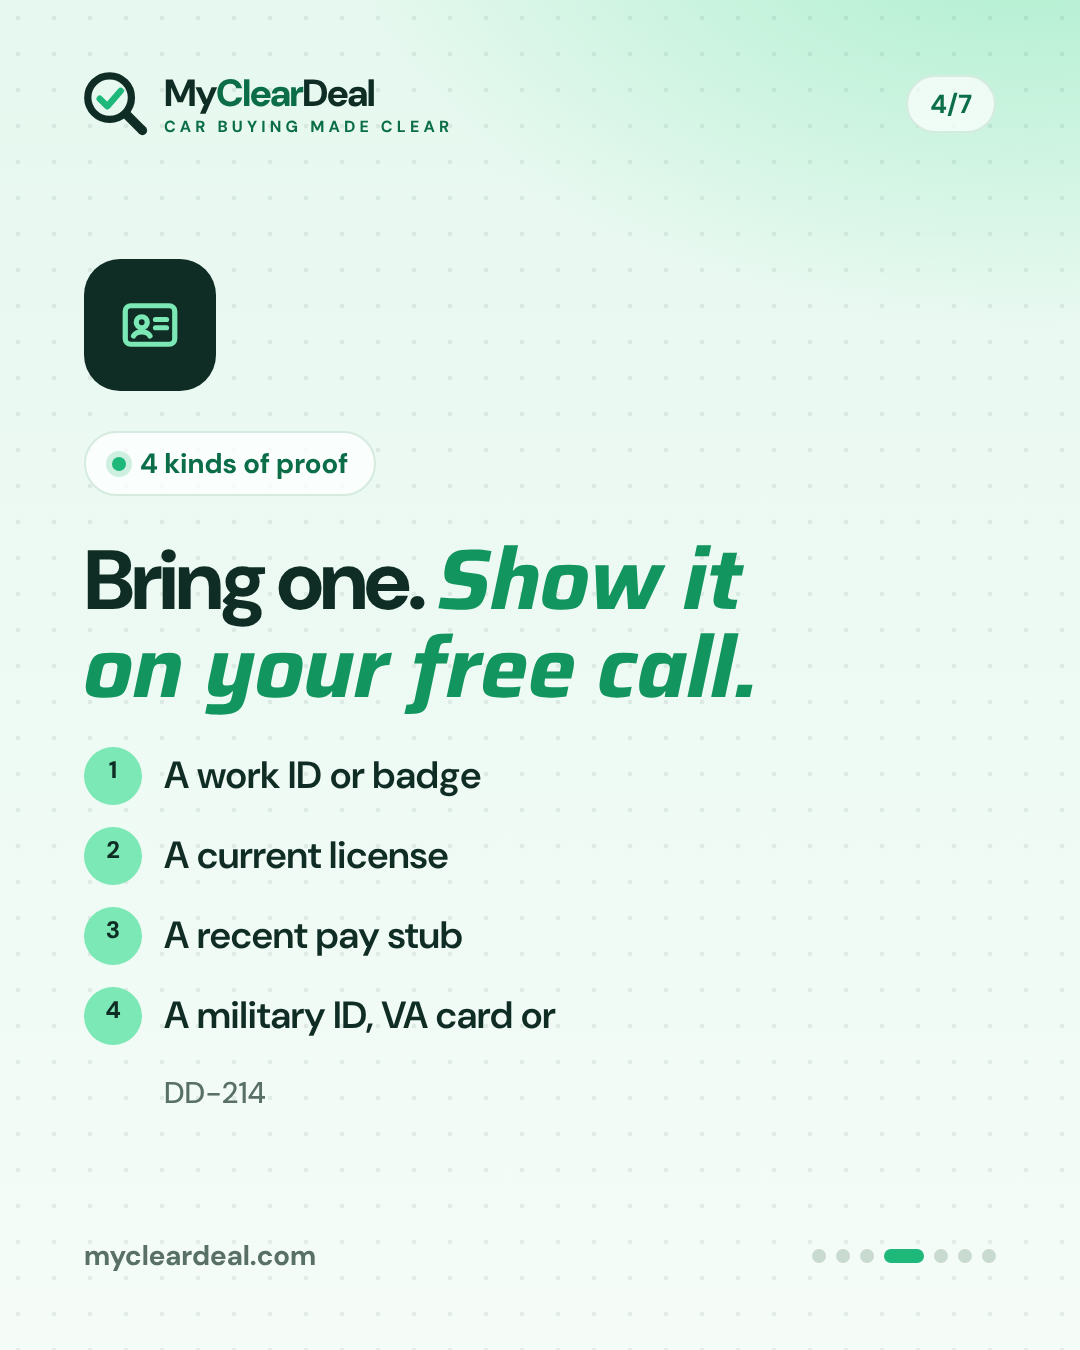
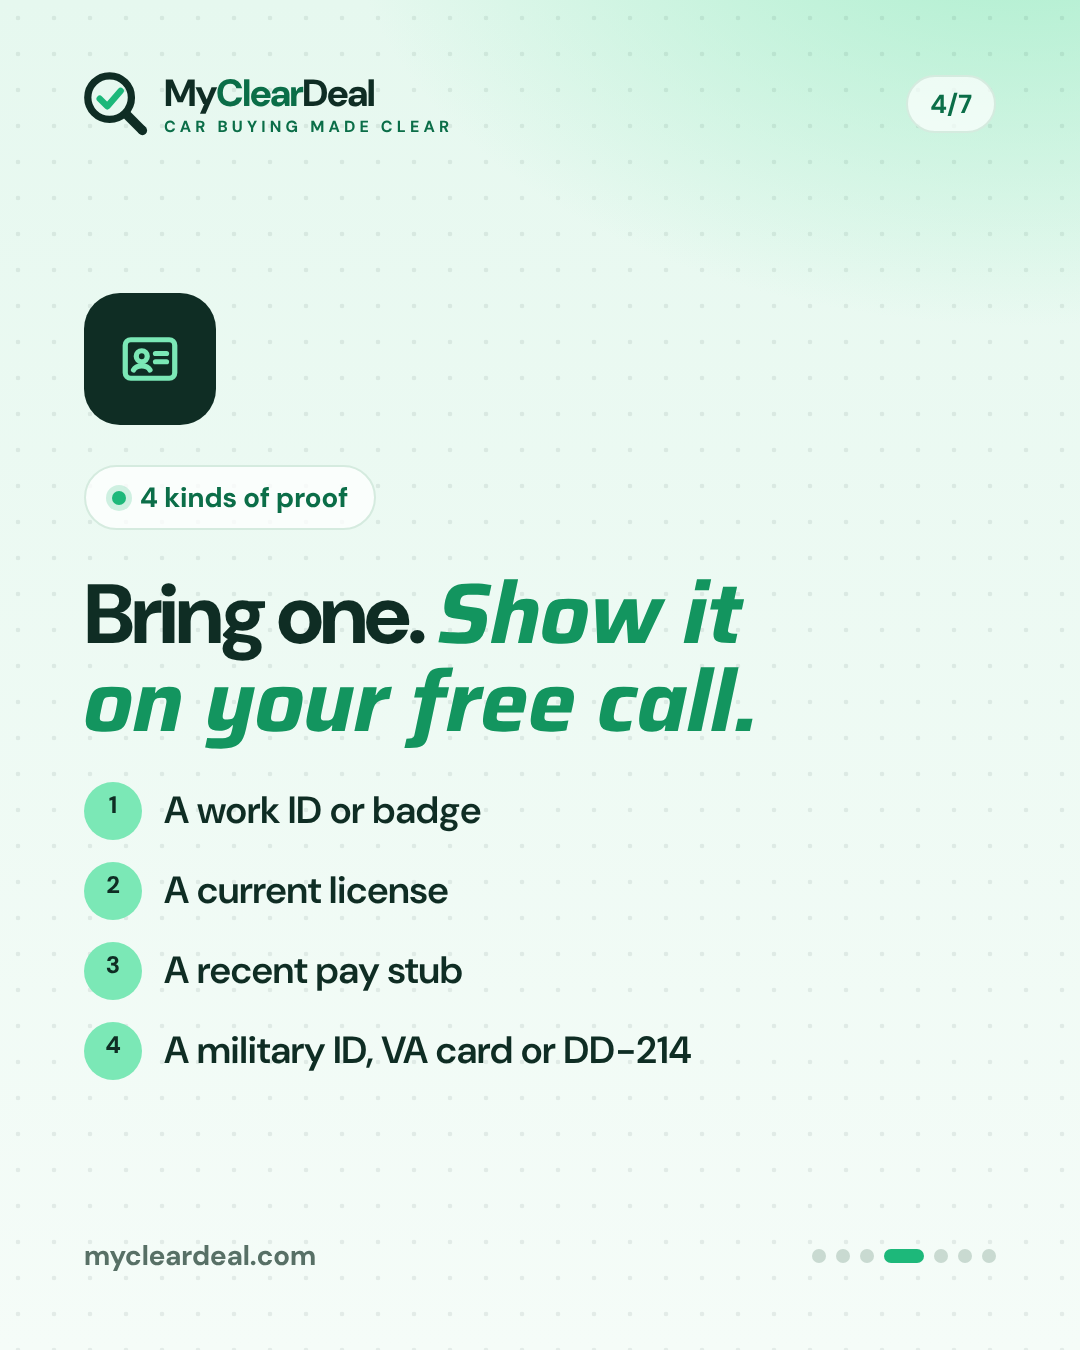
Carousels: keep DD-214 on one line
Claude-Session: https://claude.ai/code/session_017CWMKgjr8anQGjJ9tdgXqR

Changed region(s): [[0.0611, 0.4044, 0.7028, 0.84], [0.0611, 0.1867, 0.3361, 0.3733]]

diff --git a/marketing/social/src/parts.js b/marketing/social/src/parts.js
@@ -37,7 +37,7 @@ function post({ bg = 'mint', i, n, lang = 'en', body, foot }) {
   const dots = `<div class="dots">${Array.from({ length: n }, (_, k) => `<i class="${k === i - 1 ? 'on' : ''}"></i>`).join('')}</div>`;
   const swipe = `<span class="swipe">${lang === 'es' ? 'Desliza' : 'Swipe'} ${ARROW}</span>`;
   const f = foot != null ? foot : i === 1 ? `<span>mycleardeal.com</span>${swipe}` : i === n ? `<span>mycleardeal.com</span>${dots}` : `<span>mycleardeal.com</span>${dots}`;
-  body = body.replace(/DD-214/g, '<span style="white-space:nowrap">DD-214</span>');
+  body = body.replace(/DD-214/g, 'DD-\u2060214'); // word joiner: never split DD-214 across lines
   return `<div class="frame post bg-${bg}"><div class="top">${BRAND(dark, lang)}<span class="count">${i}/${n}</span></div><div class="body">${body}</div><div class="foot">${f}</div></div>`;
 }
 const page = (inner, extraCss = '') => `<!doctype html><html><head><meta charset="utf-8"><link rel="stylesheet" href="base.css"><style>${extraCss}</style></head><body>${inner}</body></html>`;
